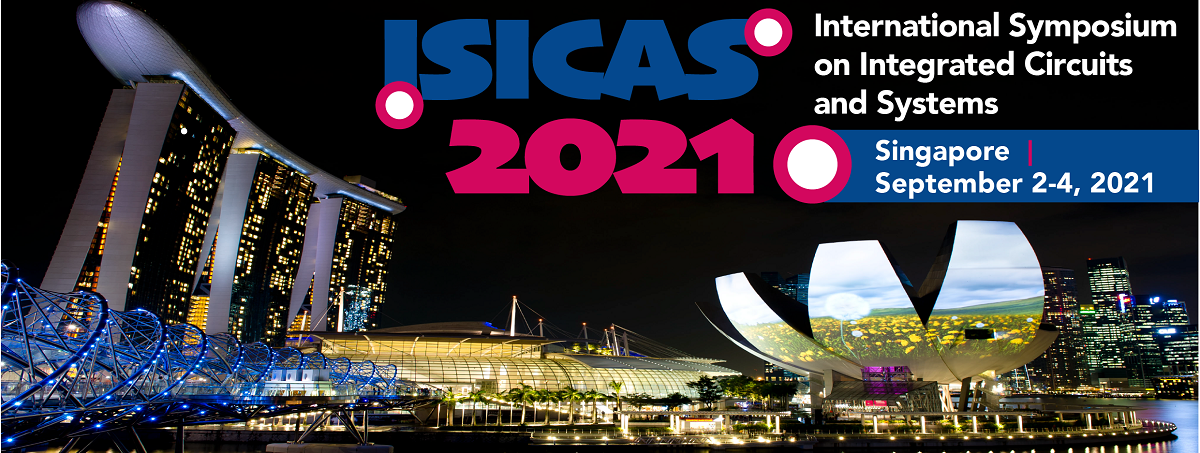
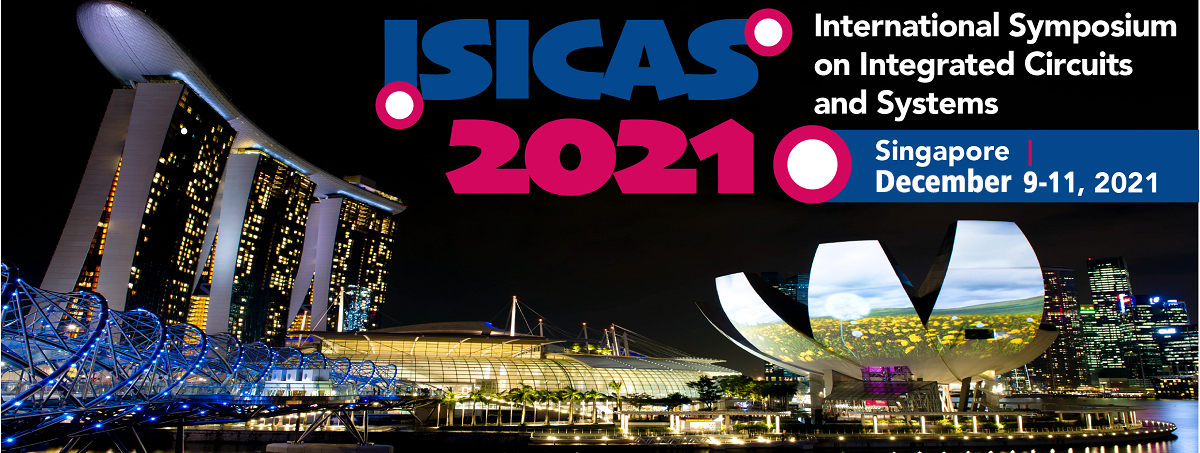
update website -- postpone event till dec

Changed region(s): [[0.7092, 0.3709, 0.9867, 0.4327]]

diff --git a/index.html b/index.html
@@ -42,9 +42,8 @@
                         <li><a href="../cfp/index.html">Call for Papers</a></li>-->
                         <!--<li><a href="../cfd/index.html">Call for Designs</a></li>-->
                         <!--<li><a href="../visa/index.html">Visa Information</a></li>-->
-                        <li><a href="./hotel/index.html">Hotel Reservation</a></li>
-                        <li><a href="./transportation/index.html">Transportation</a></li>
-                        <li><a href="./travel/index.html">Travel Information</a></li>
+                        <!--<li><a href="../hotel/index.html">Hotel Reservation</a></li>-->
+                        <!--<li><a href="../transportation/index.html">Transportation</a></li>-->
                         <li><a href="./committee/index.html">Committees</a></li>						
                         <li><a href="./history/index.html">ISICAS History</a></li>
                         <!--<li><a href="http://www.aspdac.com/awardarchive/" target="_blank">ASP-DAC Award History</a></li>-->
@@ -109,7 +108,13 @@
  
                 <h2>Latest Announcement</h2>
 				<ul>
-				<li><b><font color="blue"><em>[22th Jun. 2021] The final notification of acceptance has been extended till 7th July </font></em></b></li>
+				<li><b><font color="blue"><em>[5th Aug. 2021] The safety and well-being of all conference participants are our top priority. After considering the recent announcements, guidance, and news released by relevant national departments, the Organizing Committee has decided that ISICAS 2021, scheduled to be held September 2-4, 2021, is postponed until December 9-11, 2021.
+				<br><br>
+				The conference will remain a Hybrid event located in Singapore. More information will be released in the coming weeks about the program schedule and registration. Please check the conference website for updates and announcements.
+				<br><br>
+				Again, we apologize for any inconvenience this has caused. For any questions or concerns, please contact Conference Catalysts at lleblanc@conferencecatalysts.com or jyockim@conferencecatalysts.com. 
+				</font></em></b></li>
+				<li>[22th Jun. 2021] The final notification of acceptance has been extended till 7th July</li>
 				<li>[7th Mar. 2021] The deadline has been extended till 21st March <a href="./author/poster.pdf" target="_blank">Download</a></li>
 				<li>[16th Feb. 2021] The deadline has been extended till 7th March <a href="./author/poster.pdf" target="_blank">Download</a></li>
 				<li>[25th Jan. 2021] The organizing committee is closely monitoring the situation associated with the ongoing COVID-19 pandemic. For the safety and health of all participants, ISICAS 2021 will be held as a hybrid conference offering the on-site and virtual versions, if pandemic is not controlled.
@@ -119,7 +124,7 @@ Further details will be posted on the website as they become available. We appre
 				</ul>
                 <h2>General Information</h2>
                 <ul>
-                    <li><b>Date:</b> Sept. 3-4, 2021</li>
+                    <li><b>Date:</b> Dec. 9-11, 2021</li>
                     <li><b>Place:</b> Singapore</li>
                         <b>Submission of Papers / Design Descriptions:</b>
                         <ul>
@@ -157,7 +162,7 @@ Further details will be posted on the website as they become available. We appre
                         </ul>
                 </ul>
 
-                <h6>Last Updated on: Mar. 7th, 2021</h6>
+                <h6>Last Updated on: Aug. 5th, 2021</h6>
 
             </div><!--main-->
             <div class="clear">&nbsp;</div>
